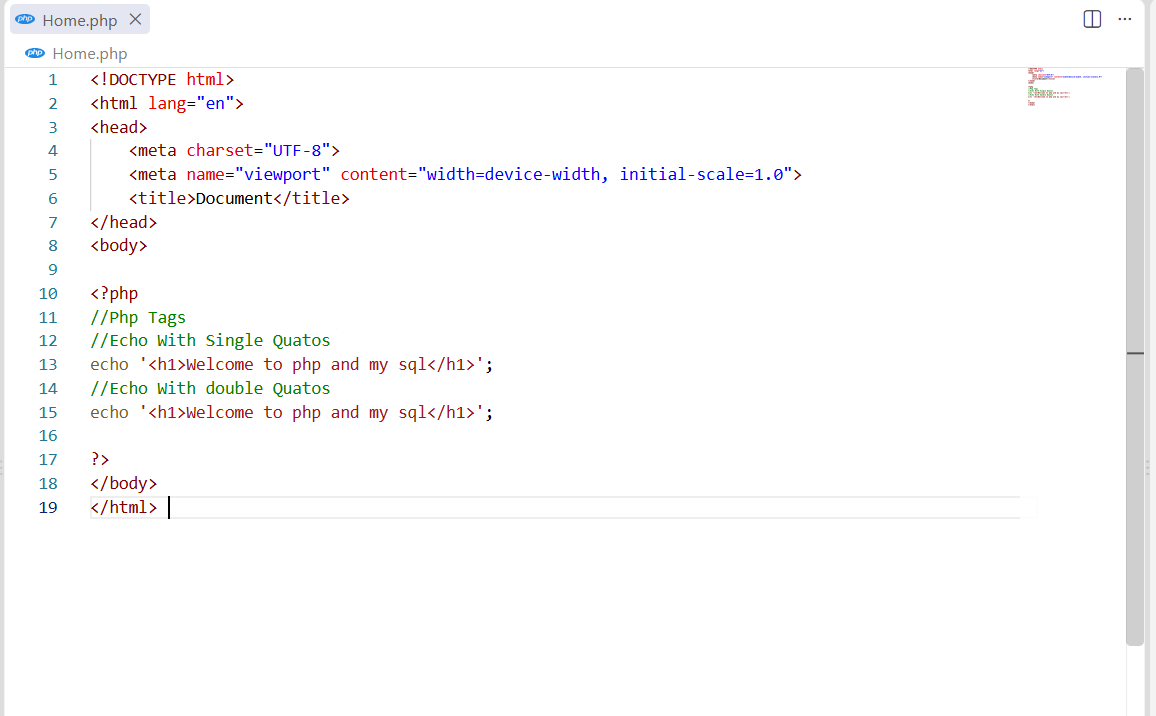
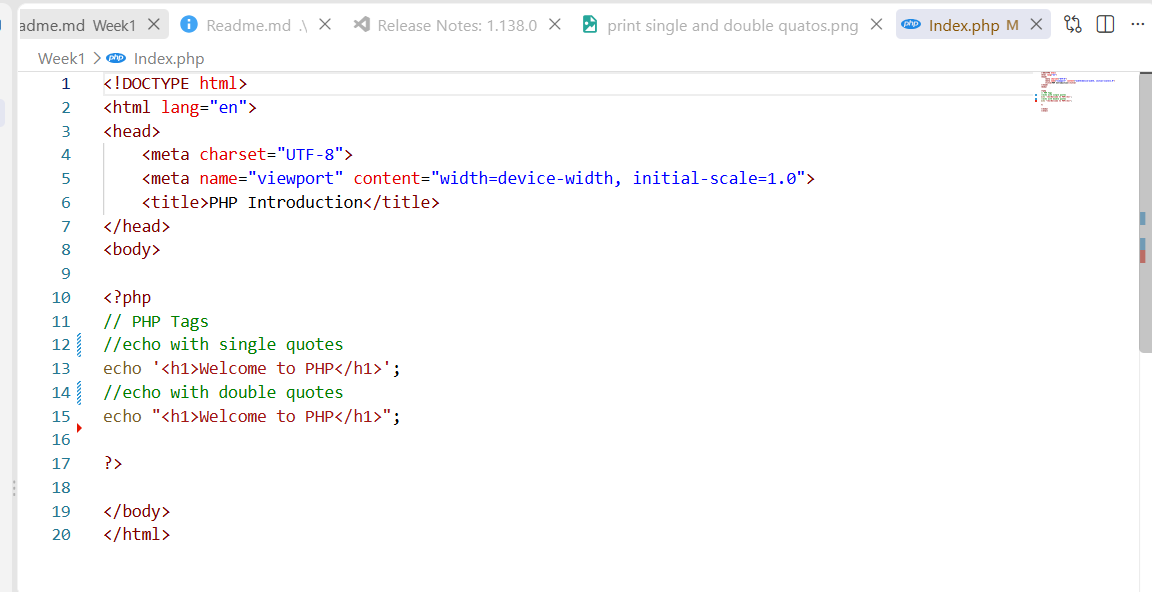
Updated Echo and Print screenshots

Changed region(s): [[0.0, 0.0, 1.0, 1.0], [0.0938, 0.8514, 0.1562, 0.9122], [0.6875, 0.2736, 0.7188, 0.3041]]

diff --git a/Week1/Index.php b/Week1/Index.php
@@ -9,46 +9,10 @@
 
 <?php
 // PHP Tags
-echo "<h1>Welcome to PHP and SQL</h1>";
-
-// Echo
-echo "<h1>Welcome to PHP</h1>";
-
-// Print
-print "<h1>Welcome to PHP</h1>";
-
-// Print with single quotes
+//print with single quotes
 print '<h1>Welcome to PHP</h1>';
-
-// Print with double quotes
+//print with double quotes
 print "<h1>Welcome to PHP</h1>";
-
-// Echo multiple values using ,
-echo "<h1>Yahye", " Ali</h1>";
-
-// Print multiple values using .
-print "<h1>Yahye" . " Ali</h1>";
-
-// Single quotes using echo 
-echo '<h1>Welcome to PHP</h1>';
-
-//Double quotes using echo
-echo "<h1>Welcome to PHP</h1>";
-
-// Variable using echo and print
-$fullName = "Sadaam Mohamud Abdullahi";
-echo "<h1>My Name is $fullName</h1>";
-print "<h1>My Name is $fullName</h1>";
-
-// strlen() using with print and echo
-$my_str = 'welcome to php republic';
-echo strlen($my_str);
-print strlen($my_str);
-
-// str_word_count() using with echo and print 
-$my_str = 'welcome to php republic';
-echo str_word_count($my_str);
-print str_word_count($my_str);
 
 ?>
 
